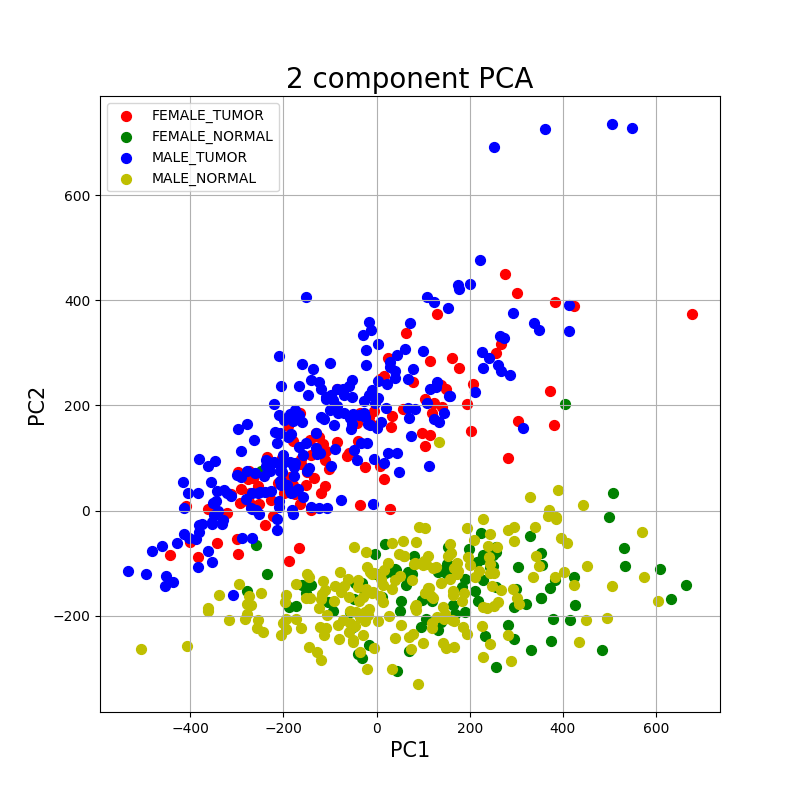
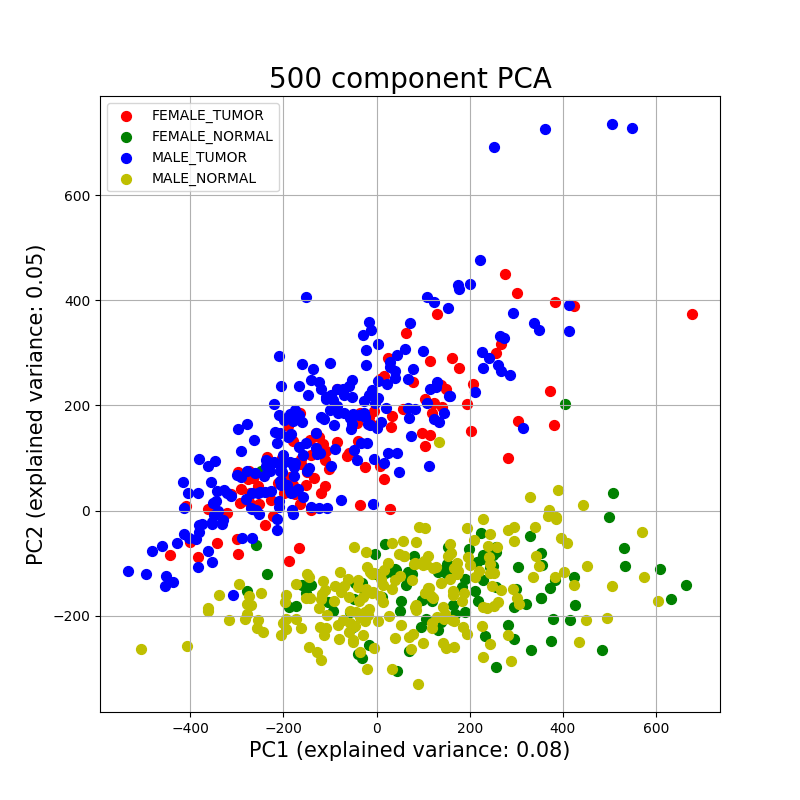
PCA + tSNE

diff --git a/code/PCA.py b/code/PCA.py
@@ -1,6 +1,8 @@
 import pandas as pd
+import numpy as np
 from sklearn.preprocessing import StandardScaler
 from sklearn.decomposition import PCA
+from sklearn.manifold import TSNE
 import matplotlib.pyplot as plt
 import sys
 
@@ -49,13 +51,27 @@ principalDf = pd.DataFrame(data = principalComponents
              , columns = pcColumns)
 
 finalDf = pd.concat([principalDf, combined_df[['Label']]], axis = 1)
+finalDf.to_csv('data/'+proj+'_'+str(n_components)+'PC.csv')
+explained_variance = pca.explained_variance_ratio_
 
-# plot
+# plot variance
+explained_variance_plot = [0]
+for i in explained_variance:
+	explained_variance_plot.append(i+explained_variance_plot[-1])
+explained_variance_plot = explained_variance_plot[1:]
+
+plt.plot(np.linspace(1,n_components,n_components),explained_variance_plot)
+plt.xlabel('Number of Compontents')
+plt.ylabel('Explained Variance')
+plt.title('Explained Variance Plot')
+plt.savefig('figures/'+proj+'_PC_explained_variance.png')
+
+# plot PCA
 fig = plt.figure(figsize = (8,8))
 ax = fig.add_subplot(1,1,1) 
-ax.set_xlabel('PC1', fontsize = 15)
-ax.set_ylabel('PC2', fontsize = 15)
-ax.set_title('2 component PCA', fontsize = 20)
+ax.set_xlabel('PC1 (explained variance: '+str(round(explained_variance[0],2))+')', fontsize = 15)
+ax.set_ylabel('PC2 (explained variance: '+str(round(explained_variance[1],2))+')', fontsize = 15)
+ax.set_title(str(n_components)+' component PCA', fontsize = 20)
 
 targets = ['FEMALE_TUMOR','FEMALE_NORMAL','MALE_TUMOR','MALE_NORMAL']
 colors = ['r', 'g', 'b','y']
@@ -69,3 +85,24 @@ ax.legend(targets)
 ax.grid()
 
 plt.savefig('figures/'+proj+'_PCA.png')
+
+# plot tSNE on PCA
+tsne = TSNE(n_components=2, verbose=1, perplexity=40, n_iter=300)
+tsne_results = tsne.fit_transform(principalDf)
+
+fig = plt.figure(figsize = (8,8))
+ax = fig.add_subplot(1,1,1) 
+ax.set_xlabel('tSNE 1', fontsize = 15)
+ax.set_ylabel('tSNE 2', fontsize = 15)
+ax.set_title('tSNE of '+str(n_components)+' component PCA', fontsize = 20)
+for target, color in zip(targets,colors):
+    indicesToKeep = finalDf['Label'] == target
+    ax.scatter(tsne_results[indicesToKeep, 0]
+               , tsne_results[indicesToKeep, 1]
+               , c = color
+               , s = 50)
+ax.legend(targets)
+ax.grid()
+
+plt.savefig('figures/'+proj+'_tSNE_PCA.png')
+
